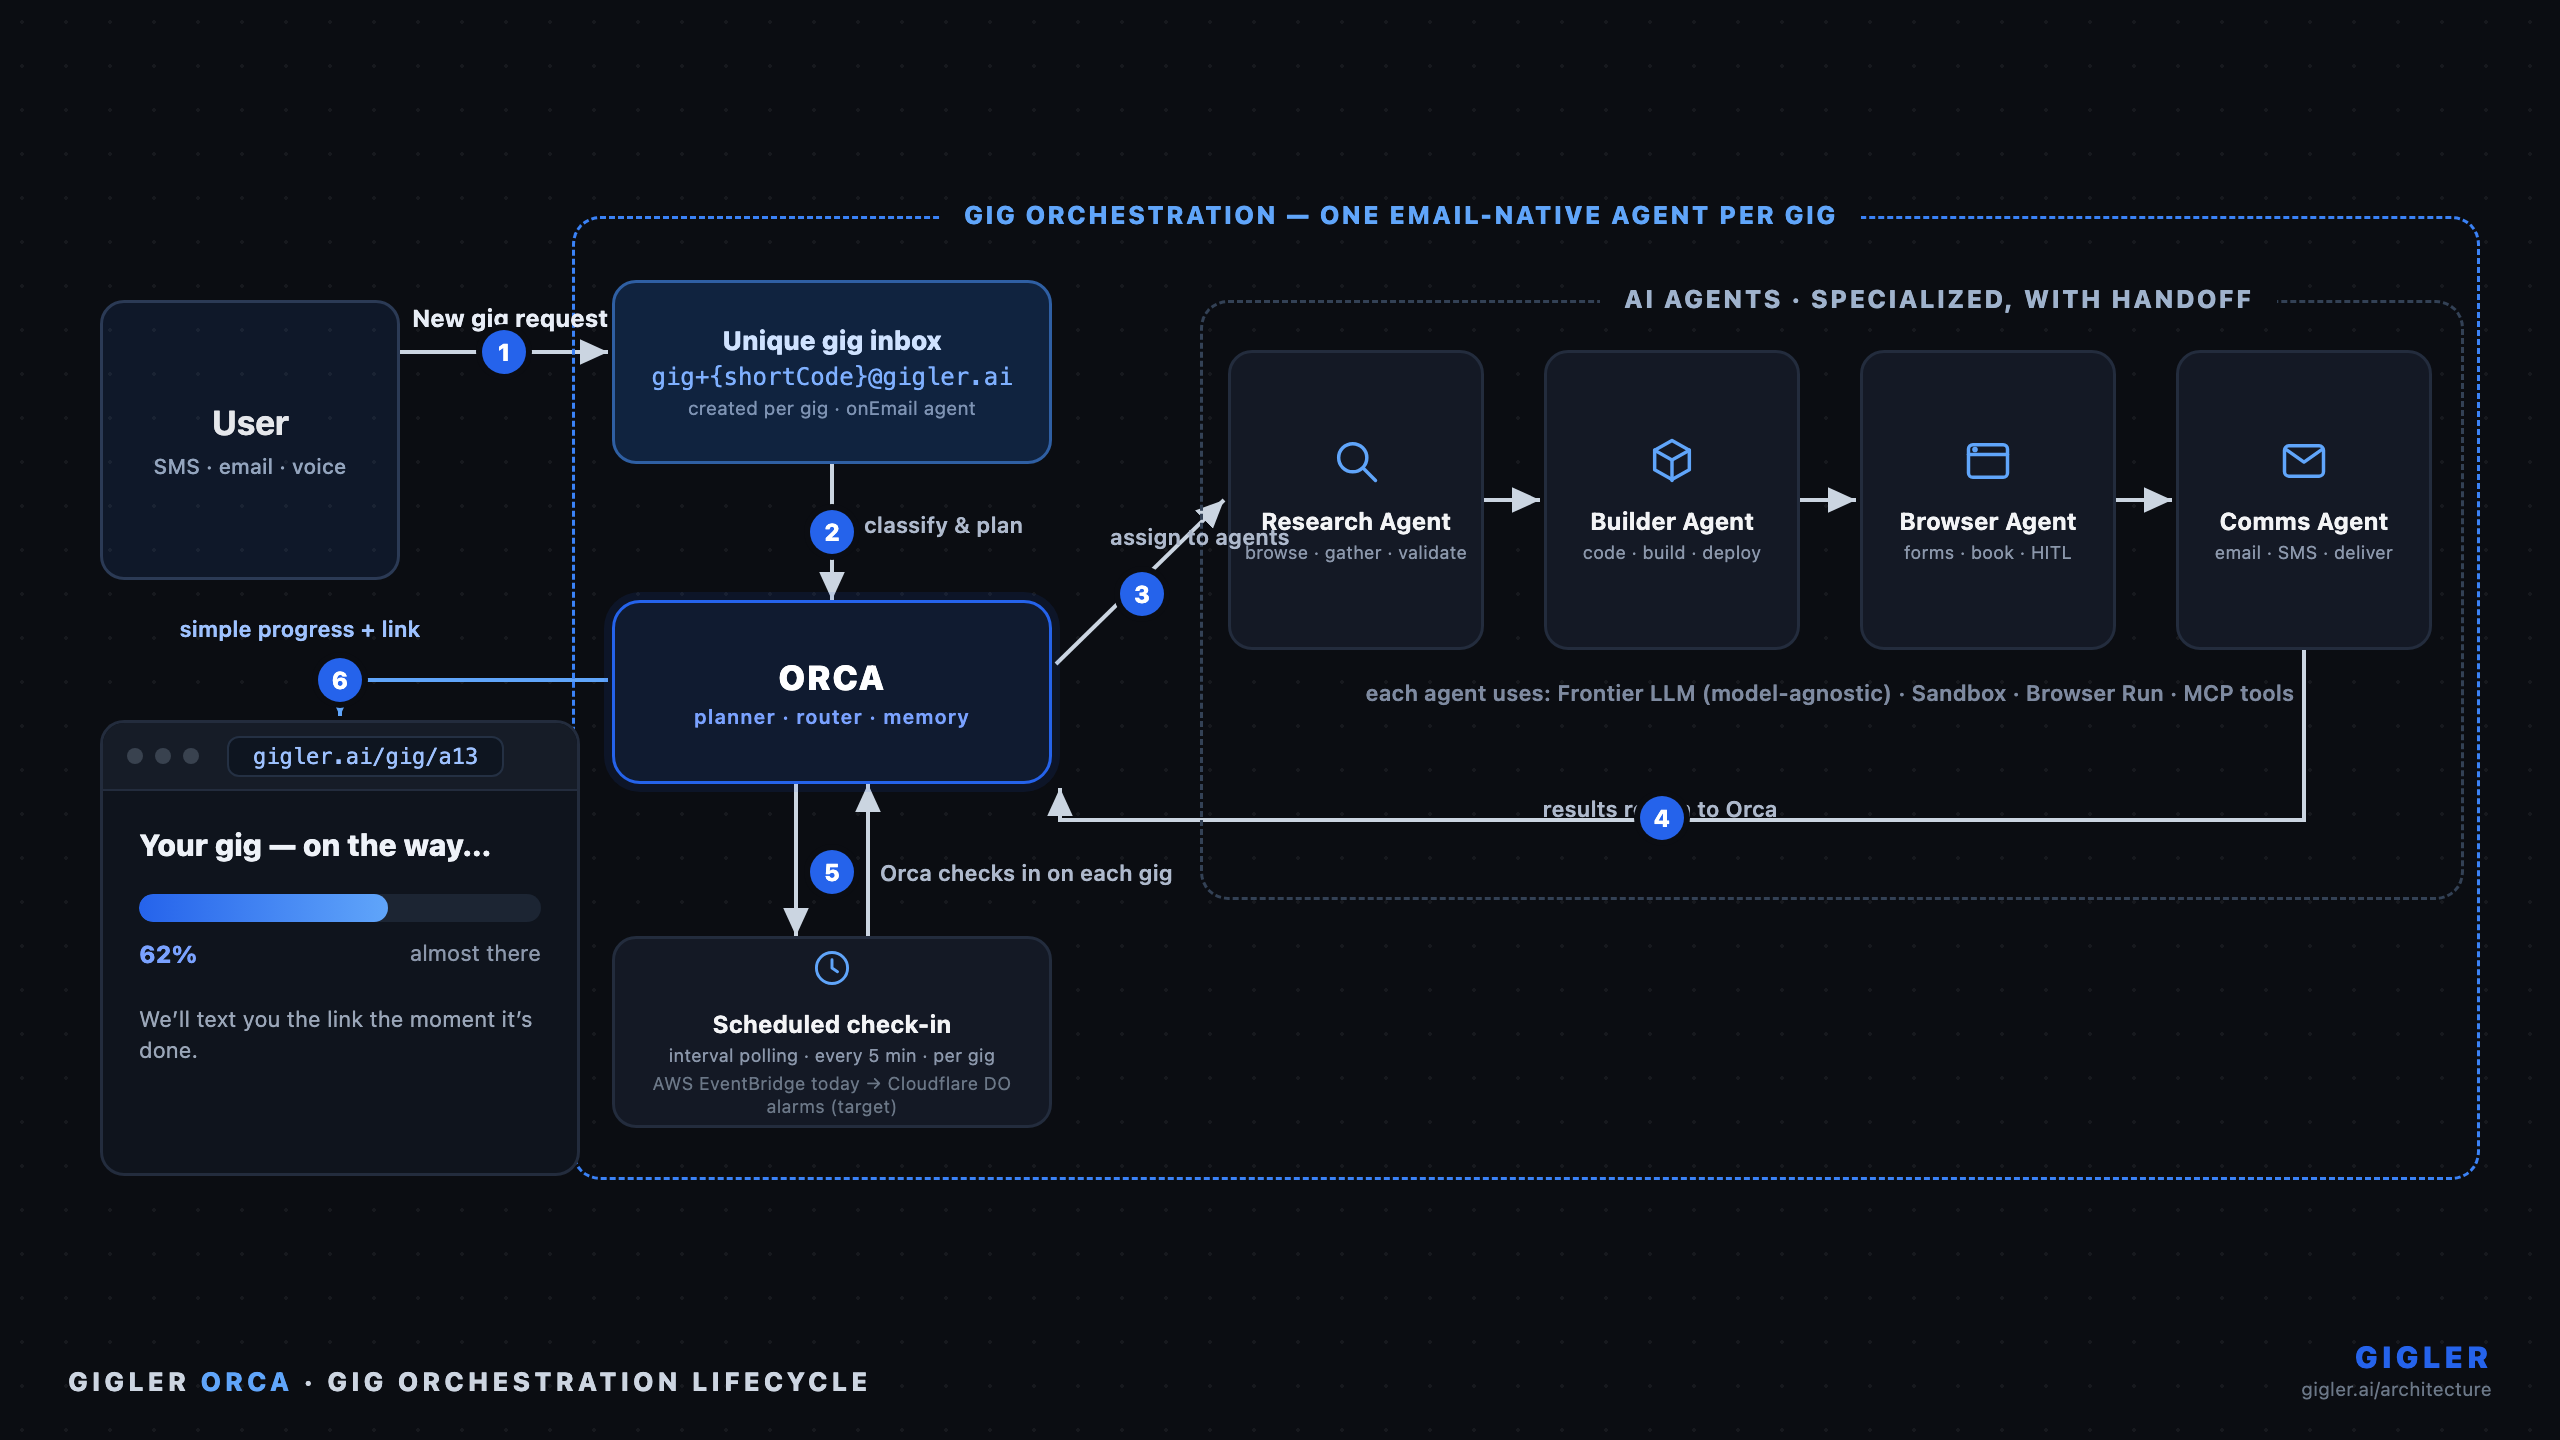
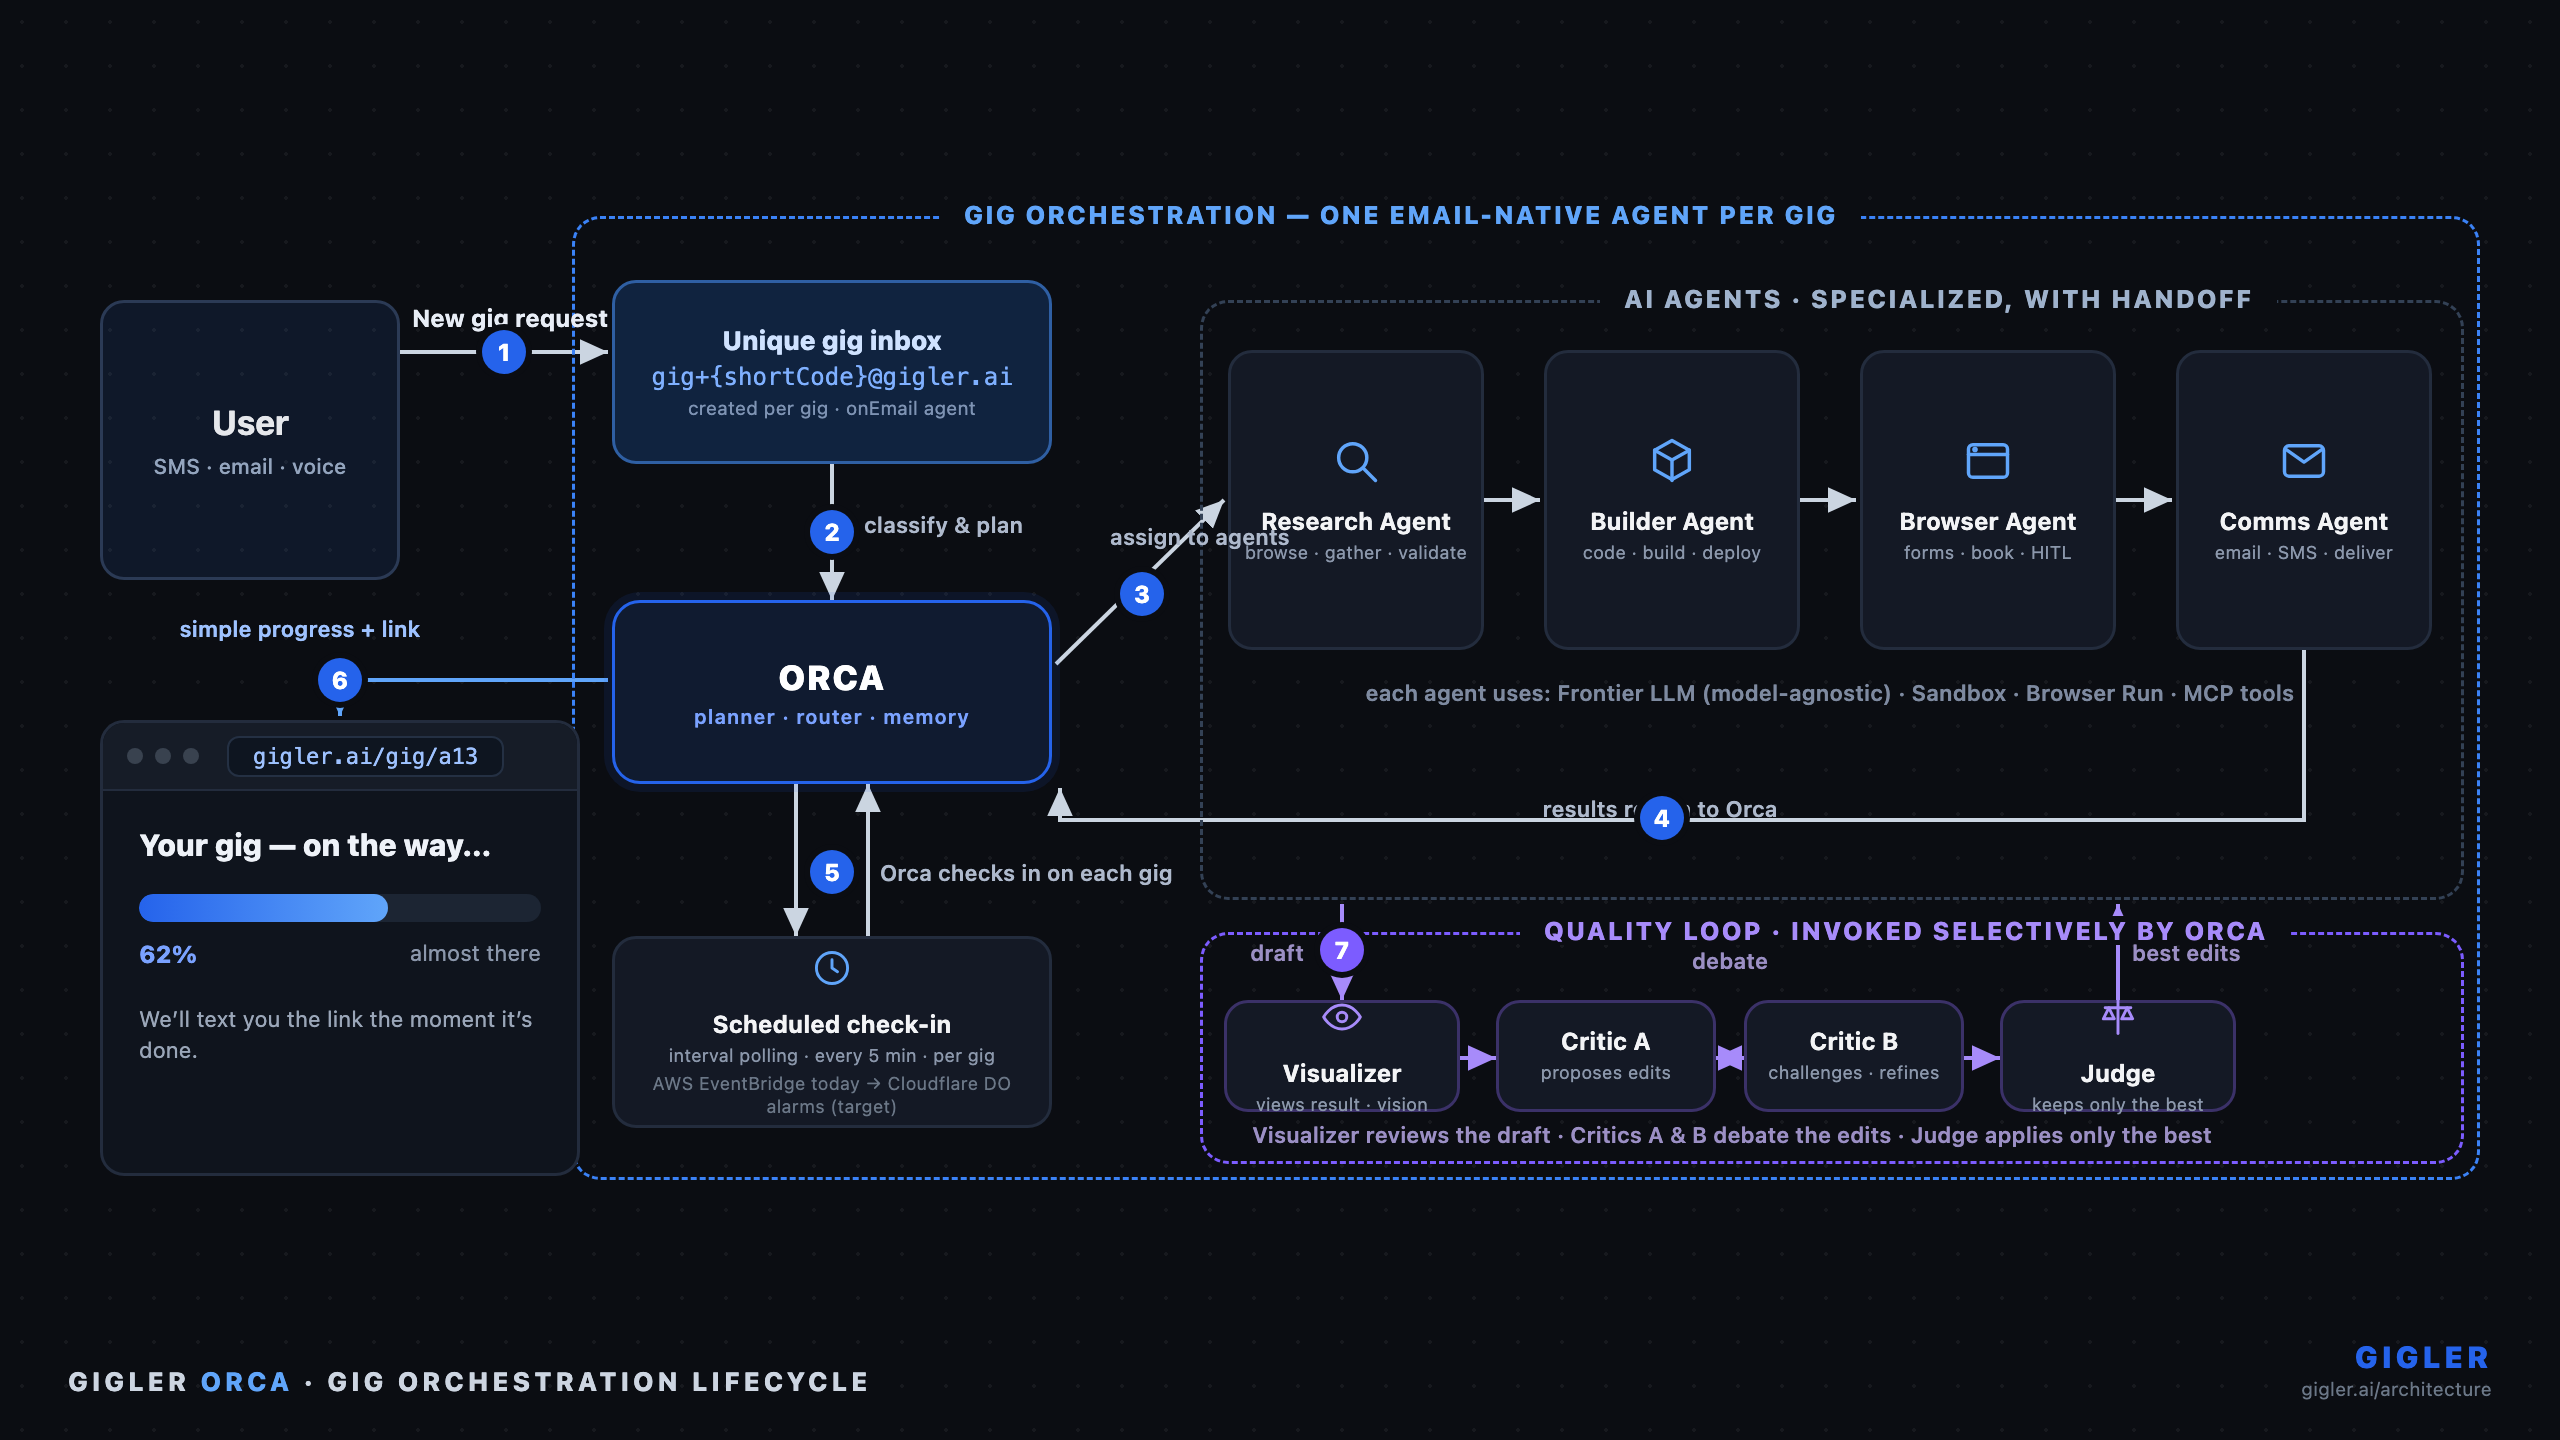
Add Orca quality loop (visualizer → critic debate → judge) to tech diagram
Introduce a selectively-invoked quality loop lane: a vision Visualizer reviews
the draft, two critic agents debate the edits, and a Judge applies only the
best — illustrating why orchestration beats a single-model pass for high-stakes
visual deliverables.

Changed region(s): [[0.4688, 0.625, 0.875, 0.8125], [0.5625, 0.7188, 0.7812, 0.75]]

diff --git a/architecture/gigler-orca-tech-diagram.html b/architecture/gigler-orca-tech-diagram.html
@@ -66,6 +66,7 @@
     <defs>
       <marker id="ah" markerWidth="9" markerHeight="9" refX="7" refY="3.2" orient="auto"><path d="M0,0 L7,3.2 L0,6.4 Z" fill="#cbd5e1"/></marker>
       <marker id="ahb" markerWidth="9" markerHeight="9" refX="7" refY="3.2" orient="auto"><path d="M0,0 L7,3.2 L0,6.4 Z" fill="#60a5fa"/></marker>
+      <marker id="ahv" markerWidth="9" markerHeight="9" refX="7" refY="3.2" orient="auto"><path d="M0,0 L7,3.2 L0,6.4 Z" fill="#a78bfa"/></marker>
     </defs>
     <g stroke="#cbd5e1" stroke-width="2" fill="none">
       <line x1="200" y1="176" x2="304" y2="176" marker-end="url(#ah)"/>            <!-- 1 -->
@@ -80,6 +81,14 @@
     </g>
     <g stroke="#60a5fa" stroke-width="2" fill="none">
       <polyline points="304,340 170,340 170,358" marker-end="url(#ahb)"/>          <!-- 6 progress -->
+    </g>
+    <g stroke="#a78bfa" stroke-width="2" fill="none">
+      <line x1="671" y1="452" x2="671" y2="500" marker-end="url(#ahv)"/>           <!-- draft in -->
+      <line x1="730" y1="529" x2="748" y2="529" marker-end="url(#ahv)"/>           <!-- vis -> critic A -->
+      <line x1="865" y1="529" x2="857" y2="529" marker-end="url(#ahv)"/>           <!-- debate <- -->
+      <line x1="865" y1="529" x2="873" y2="529" marker-end="url(#ahv)"/>           <!-- debate -> -->
+      <line x1="982" y1="529" x2="1000" y2="529" marker-end="url(#ahv)"/>          <!-- critic B -> judge -->
+      <line x1="1059" y1="500" x2="1059" y2="452" marker-end="url(#ahv)"/>         <!-- approved edits out -->
     </g>
   </svg>
 
@@ -146,6 +155,30 @@
 
   <div class="albl sm" style="left:614px; top:340px; width:602px; color:#7e8aa0;">each agent uses: Frontier LLM (model-agnostic) · Sandbox · Browser Run · MCP tools</div>
 
+  <!-- QUALITY LOOP -->
+  <div class="grp" style="left:600px; top:466px; width:632px; height:116px; border-color:#7c5cff;"></div>
+  <div class="grp-title" style="left:760px; top:458px; color:#a78bfa; border-color:#7c5cff;">Quality loop · invoked selectively by Orca</div>
+
+  <div class="box" style="left:612px; top:500px; width:118px; height:56px; border-color:#3b3168;">
+    <span class="ic"><svg width="22" height="22" viewBox="0 0 24 24" fill="none" stroke="#a78bfa" stroke-width="1.6" stroke-linecap="round" stroke-linejoin="round"><path d="M2 12s3.5-6.5 10-6.5S22 12 22 12s-3.5 6.5-10 6.5S2 12 2 12z"/><circle cx="12" cy="12" r="2.6"/></svg></span>
+    <div class="lab">Visualizer</div><div class="sub">views result · vision</div>
+  </div>
+  <div class="box" style="left:748px; top:500px; width:110px; height:56px; border-color:#3b3168;">
+    <div class="lab">Critic A</div><div class="sub">proposes edits</div>
+  </div>
+  <div class="box" style="left:872px; top:500px; width:110px; height:56px; border-color:#3b3168;">
+    <div class="lab">Critic B</div><div class="sub">challenges · refines</div>
+  </div>
+  <div class="box" style="left:1000px; top:500px; width:118px; height:56px; border-color:#3b3168;">
+    <span class="ic"><svg width="22" height="22" viewBox="0 0 24 24" fill="none" stroke="#a78bfa" stroke-width="1.6" stroke-linecap="round" stroke-linejoin="round"><path d="M12 3v18"/><path d="M5 7h14"/><path d="M7 7l-3 6h6l-3-6z"/><path d="M17 7l-3 6h6l-3-6z"/></svg></span>
+    <div class="lab">Judge</div><div class="sub">keeps only the best</div>
+  </div>
+
+  <div class="albl sm" style="left:606px; top:561px; width:520px; color:#9b8fc4;">Visualizer reviews the draft · Critics A &amp; B debate the edits · Judge applies only the best</div>
+  <div class="albl sm" style="left:578px; top:470px; width:74px; color:#9b8fc4; text-align:right;">draft</div>
+  <div class="albl sm" style="left:1066px; top:470px; width:96px; color:#9b8fc4; text-align:left;">best edits</div>
+  <div class="albl sm" style="left:825px; top:474px; width:80px; color:#9b8fc4;">debate</div>
+
   <!-- labels -->
   <div class="albl" style="left:170px; top:152px; width:170px;">New gig request</div>
   <div class="albl sm" style="left:432px; top:256px; width:160px; text-align:left;">classify &amp; plan</div>
@@ -161,6 +194,7 @@
   <div class="badge" style="left:820px; top:398px;">4</div>
   <div class="badge" style="left:405px; top:425px;">5</div>
   <div class="badge" style="left:159px; top:329px;">6</div>
+  <div class="badge" style="left:660px; top:464px; background:#7c5cff;">7</div>
 
   <!-- footer -->
   <div class="fl">GIGLER <span>ORCA</span> · GIG ORCHESTRATION LIFECYCLE</div>